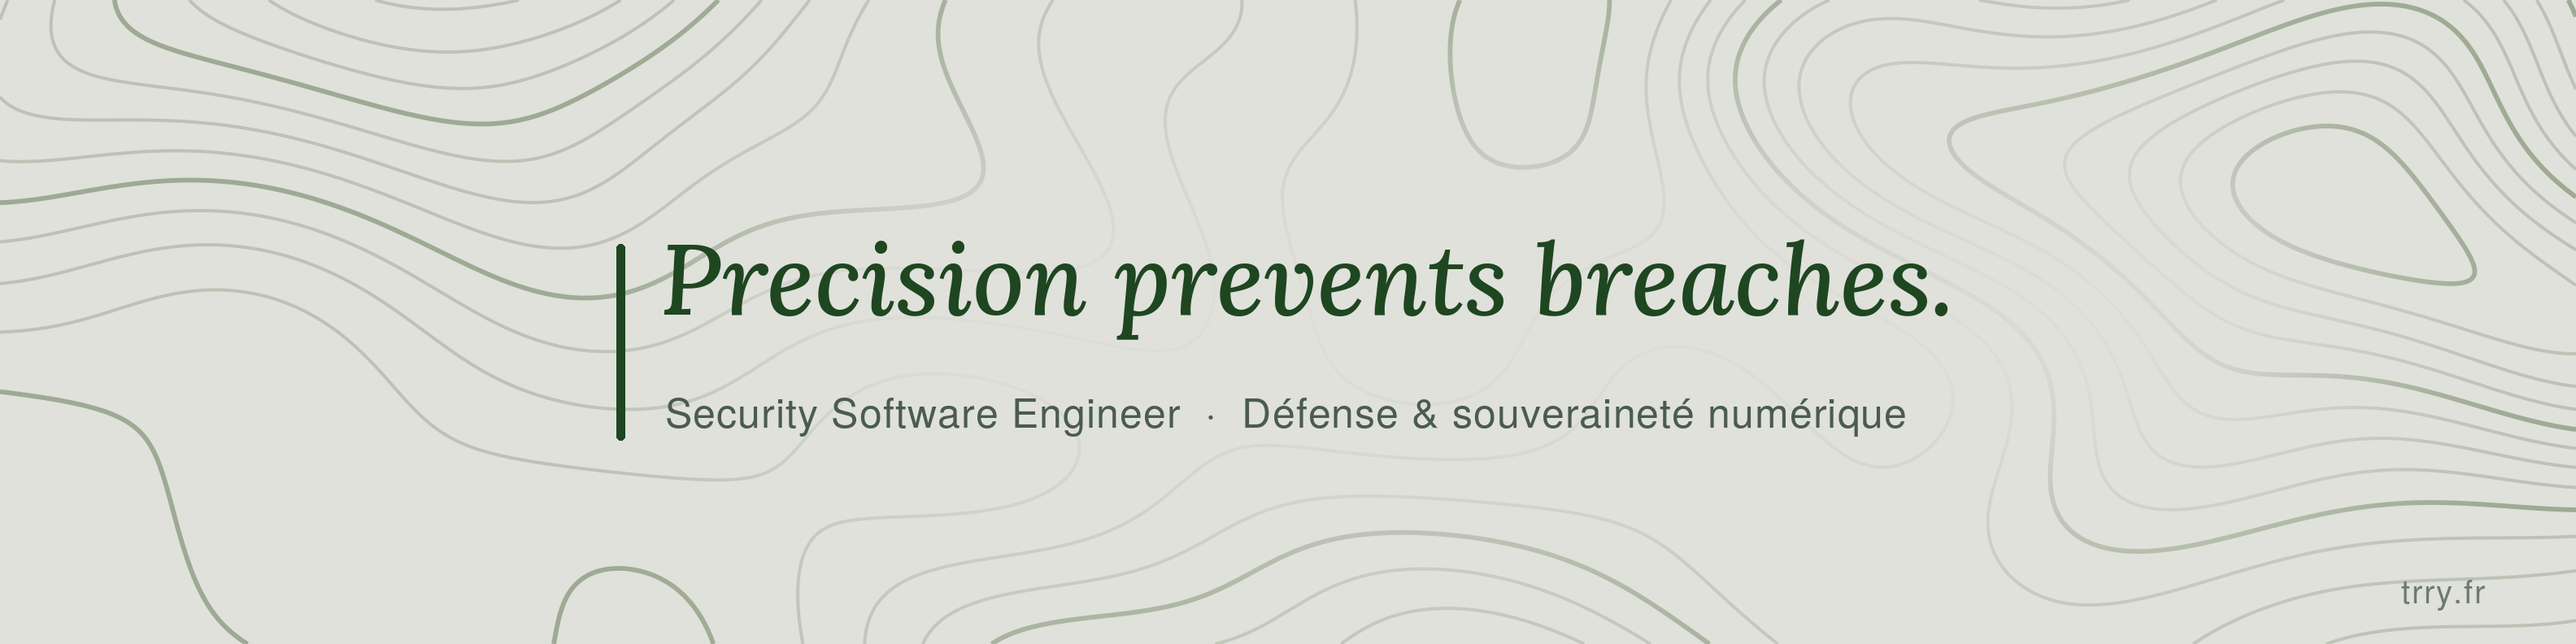
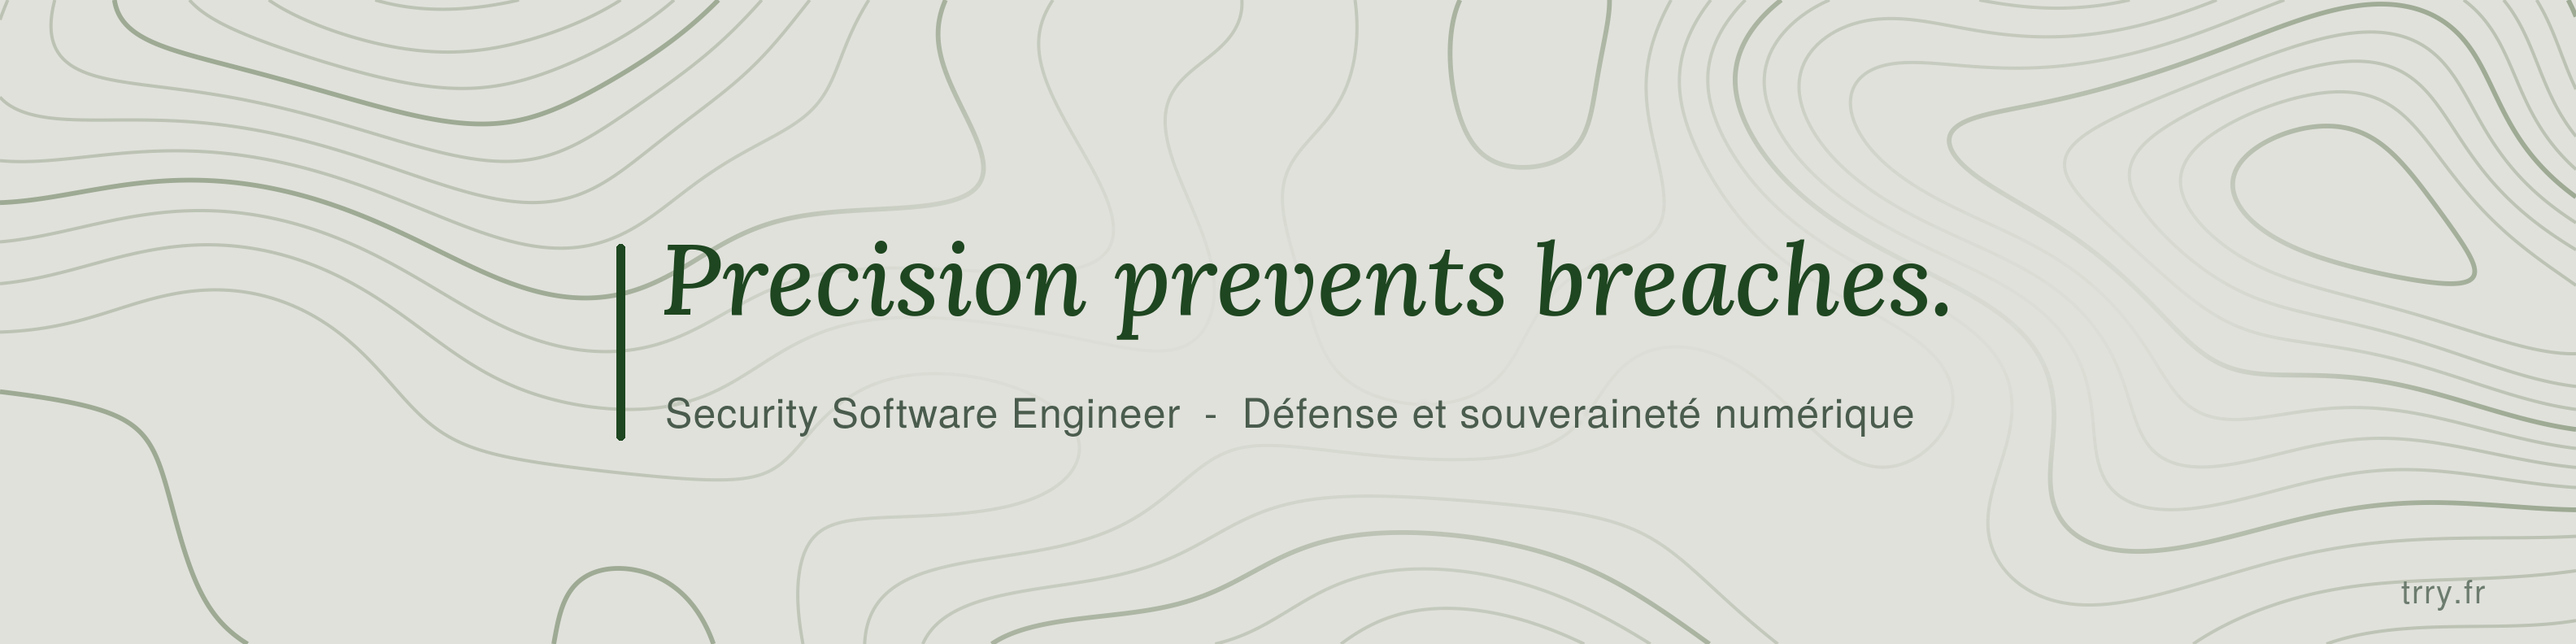
Ajouter la licence et harmoniser le bandeau (#1)
Le depot de profil recoit la licence proprietaire des autres depots, adaptee a un contenu sans logiciel. Le sous-titre du bandeau et son texte alternatif reprennent celui du site. La ligne des outils remplace ses points medians par des virgules.

Changed region(s): [[0.5, 0.6061, 0.75, 0.6667], [0.3438, 0.6364, 0.375, 0.6667], [0.2812, 0.6364, 0.3125, 0.6667]]

diff --git a/README.md b/README.md
@@ -1,5 +1,5 @@
 <p align="center">
-  <img src="assets/banner.png" alt="Precision prevents breaches. Security Software Engineer, défense et souveraineté numérique" width="100%">
+  <img src="assets/banner.png" alt="Precision prevents breaches. Security Software Engineer - Défense et souveraineté numérique" width="100%">
 </p>
 
 <p align="center">
@@ -47,7 +47,7 @@ Un outil de sécurité qui se trompe sans prévenir est plus dangereux que pas d
   <img src="https://skillicons.dev/icons?i=go,py,c,rust,bash,powershell,git,githubactions,linux,debian,docker,vscode&theme=light&perline=12" alt="Go, Python, C, Rust, Bash, PowerShell, Git, GitHub Actions, Linux, Debian, Docker, VS Code">
 </p>
 
-<p align="center"><sub>Assembleur x86-64 · Proxmox · OPNsense · Suricata · Wazuh · Active Directory · Cisco IOS-XE</sub></p>
+<p align="center"><sub>Assembleur x86-64, Proxmox, OPNsense, Suricata, Wazuh, Active Directory, Cisco IOS-XE</sub></p>
 
 ## Activité
 
